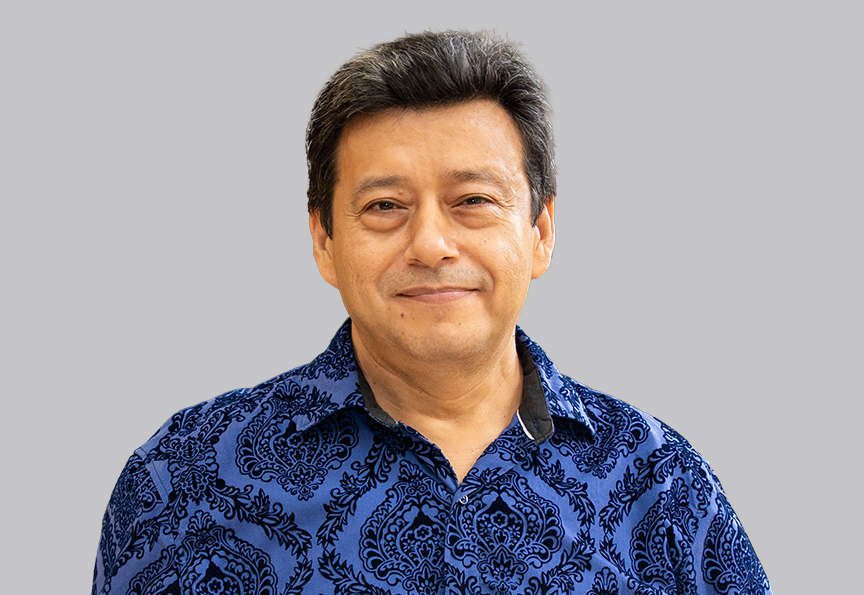
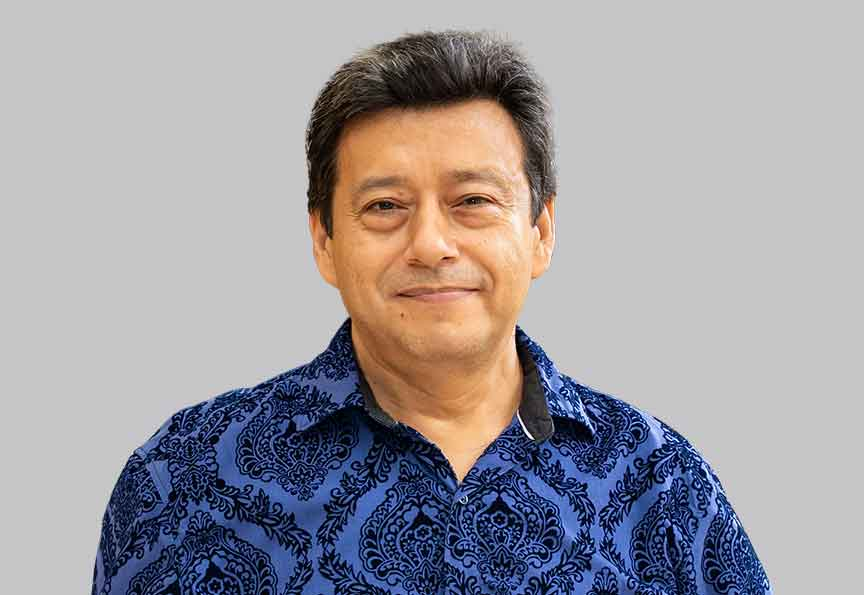
Collapse speaker bios behind a Ver más/Ver menos toggle
Speaker cards varied wildly in height since bio length ranged from
~700 to ~950 characters, making the grid look uneven row to row.
Wrap each card's bio paragraphs in a hidden <div>, toggled by a
button that reads "Ver más" / "Ver menos" (aria-expanded + a
rotating chevron). With bios collapsed, all cards now match roughly
the same height.

Also matched the agenda's registration button height to the site's
other buttons (48px, same as nav/hero/register-section), per request.

Picked up re-compressed versions of the 7 speaker photos along the
way (same dimensions, ~90% smaller file size).

diff --git a/site/index.html b/site/index.html
@@ -188,6 +188,10 @@
   .card-speaker .role{font-size:13px;color:var(--red);font-weight:600;}
   .card-speaker .topic{font-size:12px;color:var(--muted);margin-top:2px;}
   .card-speaker .bio{font-size:13px;line-height:1.5;color:var(--muted);margin-top:6px;}
+  .card-speaker .bio-toggle{display:inline-flex;align-items:center;gap:4px;margin-top:8px;background:none;border:none;padding:0;cursor:pointer;font-family:var(--font-body);font-size:12.5px;font-weight:700;letter-spacing:0.03em;text-transform:uppercase;color:var(--blue);}
+  .card-speaker .bio-toggle:hover{color:var(--red);}
+  .card-speaker .bio-toggle svg{transition:transform .15s ease;}
+  .card-speaker .bio-toggle[aria-expanded="true"] svg{transform:rotate(180deg);}
   .card-speaker .li-link{display:inline-flex;align-items:center;gap:6px;font-size:13px;color:var(--blue);font-weight:600;margin-top:4px;}
   .card-speaker .li-link svg{flex-shrink:0;}
   .card-speaker .li-link:hover{color:var(--red);}
@@ -224,7 +228,7 @@
   .day-row .where{font-size:13px;color:var(--muted);}
   .day-row.cont .date{visibility:hidden;}
   .tag-onsite{display:inline-block;margin-left:8px;padding:2px 8px;border-radius:3px;background:var(--cream);color:var(--blue);font-family:var(--font-mono);font-size:10.5px;letter-spacing:0.06em;text-transform:uppercase;vertical-align:2px;}
-  .rsvp-btn{display:inline-flex;align-items:center;gap:5px;align-self:flex-start;margin-top:4px;font-family:var(--font-mono);font-size:10.5px;font-weight:600;letter-spacing:0.05em;text-transform:uppercase;color:var(--blue);border:1px solid var(--blue);border-radius:3px;padding:3px 10px;}
+  .rsvp-btn{display:inline-flex;align-items:center;justify-content:center;gap:5px;align-self:flex-start;margin-top:4px;height:48px;font-family:var(--font-mono);font-size:10.5px;font-weight:600;letter-spacing:0.05em;text-transform:uppercase;color:var(--blue);border:1px solid var(--blue);border-radius:3px;padding:0 16px;}
   .rsvp-btn:hover{background:var(--blue);color:#fff;}
   @media (max-width:640px){
     .day-row{flex-wrap:wrap;gap:4px 16px;}
@@ -363,31 +367,31 @@
     <div class="grid-speakers">
       <div class="card-speaker">
         <img src="assets/speakers/Daniel-Cruz-Fuentes.jpg" alt="Retrato de Daniel Cruz">
-        <div class="meta"><h3>Daniel Cruz</h3><span class="role">Ingeniero ambiental — Oficina de país, OPS Bolivia</span><a class="li-link" href="https://www.linkedin.com/in/danielcruzfuentes/" target="_blank" rel="noopener"><svg aria-hidden="true" viewBox="0 0 24 24" width="16" height="16" fill="currentColor"><path d="M20.447 20.452h-3.554v-5.569c0-1.328-.027-3.037-1.852-3.037-1.853 0-2.136 1.445-2.136 2.939v5.667H9.351V9h3.414v1.561h.046c.477-.9 1.637-1.85 3.37-1.85 3.601 0 4.267 2.37 4.267 5.455v6.286zM5.337 7.433a2.062 2.062 0 1 1 0-4.124 2.062 2.062 0 0 1 0 4.124zM7.119 20.452H3.554V9h3.565v11.452z"/></svg>LinkedIn<svg aria-hidden="true" width="12" height="12" fill="currentColor" viewBox="0 0 16 16"><path fill-rule="evenodd" d="M14 2.5a.5.5 0 0 0-.5-.5h-6a.5.5 0 0 0 0 1h4.793L2.146 13.146a.5.5 0 0 0 .708.708L13 3.707V8.5a.5.5 0 0 0 1 0z"/></svg></a><p class="bio">Daniel Cruz es un ingeniero ambiental boliviano con más de 10 años de experiencia en salud ambiental. Ha cursado dos maestrías, una en Toxicología Ambiental y Evaluación de Riesgos y otra en Estudios del Desarrollo, formación que le ha permitido adquirir experiencia en análisis económico, sociológico y político.</p><p class="bio">A partir de su enfoque transdisciplinario y su experiencia profesional, aplica marcos analíticos como el pensamiento sistémico y el pensamiento integrador para comprender y abordar problemas complejos. Entre los trabajos destacados, fue miembro fundador de la Fundación Gaia Pacha, estuvo liderando la Unidad de Salud Ambiental del Ministerio de Salud de Bolivia (2016-2019), trabajó como consultor internacional para la Organización Panamericana de la Salud (OPS) y actualmente se desempeña en la oficina de país de la OPS en Bolivia.</p></div>
+        <div class="meta"><h3>Daniel Cruz</h3><span class="role">Ingeniero ambiental — Oficina de país, OPS Bolivia</span><a class="li-link" href="https://www.linkedin.com/in/danielcruzfuentes/" target="_blank" rel="noopener"><svg aria-hidden="true" viewBox="0 0 24 24" width="16" height="16" fill="currentColor"><path d="M20.447 20.452h-3.554v-5.569c0-1.328-.027-3.037-1.852-3.037-1.853 0-2.136 1.445-2.136 2.939v5.667H9.351V9h3.414v1.561h.046c.477-.9 1.637-1.85 3.37-1.85 3.601 0 4.267 2.37 4.267 5.455v6.286zM5.337 7.433a2.062 2.062 0 1 1 0-4.124 2.062 2.062 0 0 1 0 4.124zM7.119 20.452H3.554V9h3.565v11.452z"/></svg>LinkedIn<svg aria-hidden="true" width="12" height="12" fill="currentColor" viewBox="0 0 16 16"><path fill-rule="evenodd" d="M14 2.5a.5.5 0 0 0-.5-.5h-6a.5.5 0 0 0 0 1h4.793L2.146 13.146a.5.5 0 0 0 .708.708L13 3.707V8.5a.5.5 0 0 0 1 0z"/></svg></a><button type="button" class="bio-toggle" aria-expanded="false" aria-controls="bio-1"><span class="bio-toggle-label">Ver más</span><svg aria-hidden="true" viewBox="0 0 16 16" width="11" height="11" fill="currentColor"><path d="M8 11 2 5l1.4-1.4L8 8.2l4.6-4.6L14 5z"/></svg></button><div class="bio-wrap" id="bio-1" hidden><p class="bio">Daniel Cruz es un ingeniero ambiental boliviano con más de 10 años de experiencia en salud ambiental. Ha cursado dos maestrías, una en Toxicología Ambiental y Evaluación de Riesgos y otra en Estudios del Desarrollo, formación que le ha permitido adquirir experiencia en análisis económico, sociológico y político.</p><p class="bio">A partir de su enfoque transdisciplinario y su experiencia profesional, aplica marcos analíticos como el pensamiento sistémico y el pensamiento integrador para comprender y abordar problemas complejos. Entre los trabajos destacados, fue miembro fundador de la Fundación Gaia Pacha, estuvo liderando la Unidad de Salud Ambiental del Ministerio de Salud de Bolivia (2016-2019), trabajó como consultor internacional para la Organización Panamericana de la Salud (OPS) y actualmente se desempeña en la oficina de país de la OPS en Bolivia.</p></div></div>
       </div>
       <div class="card-speaker">
         <img src="assets/speakers/Noemi-Tirado.jpg" alt="Retrato de Noemí Tirado">
-        <div class="meta"><h3>Noemí Tirado</h3><span class="role">Docente investigadora emérita — Genética Toxicológica, UMSA</span><a class="li-link" href="https://www.linkedin.com/in/noemi-tirado-bustillos-4679a332/" target="_blank" rel="noopener"><svg aria-hidden="true" viewBox="0 0 24 24" width="16" height="16" fill="currentColor"><path d="M20.447 20.452h-3.554v-5.569c0-1.328-.027-3.037-1.852-3.037-1.853 0-2.136 1.445-2.136 2.939v5.667H9.351V9h3.414v1.561h.046c.477-.9 1.637-1.85 3.37-1.85 3.601 0 4.267 2.37 4.267 5.455v6.286zM5.337 7.433a2.062 2.062 0 1 1 0-4.124 2.062 2.062 0 0 1 0 4.124zM7.119 20.452H3.554V9h3.565v11.452z"/></svg>LinkedIn<svg aria-hidden="true" width="12" height="12" fill="currentColor" viewBox="0 0 16 16"><path fill-rule="evenodd" d="M14 2.5a.5.5 0 0 0-.5-.5h-6a.5.5 0 0 0 0 1h4.793L2.146 13.146a.5.5 0 0 0 .708.708L13 3.707V8.5a.5.5 0 0 0 1 0z"/></svg></a><p class="bio">La Dra. Noemí Tirado Bustillos es docente investigadora emérita de la UMSA y responsable de la Unidad de Genética Toxicológica del Instituto de Genética. Es miembro de la Academia Mundial de Ciencias (TWAS) y de la Academia Nacional de Ciencias de Bolivia (ANCB), y preside la Asociación Latinoamericana de Mutagénesis, Carcinogénesis y Teratogénesis Ambiental (ALAMCTA).</p><p class="bio">Su investigación se centra en la toxicología y genética toxicológica ambiental, con énfasis en los efectos de metales pesados, plaguicidas y otros contaminantes sobre la salud. Es autora de más de 60 publicaciones científicas y recibió el Premio Teresa Rescala Nemtala a Mujeres Investigadoras Destacadas de la UMSA (2025) y el Grado de Honor Cívico Prócer Pedro Domingo Murillo (2022).</p></div>
+        <div class="meta"><h3>Noemí Tirado</h3><span class="role">Docente investigadora emérita — Genética Toxicológica, UMSA</span><a class="li-link" href="https://www.linkedin.com/in/noemi-tirado-bustillos-4679a332/" target="_blank" rel="noopener"><svg aria-hidden="true" viewBox="0 0 24 24" width="16" height="16" fill="currentColor"><path d="M20.447 20.452h-3.554v-5.569c0-1.328-.027-3.037-1.852-3.037-1.853 0-2.136 1.445-2.136 2.939v5.667H9.351V9h3.414v1.561h.046c.477-.9 1.637-1.85 3.37-1.85 3.601 0 4.267 2.37 4.267 5.455v6.286zM5.337 7.433a2.062 2.062 0 1 1 0-4.124 2.062 2.062 0 0 1 0 4.124zM7.119 20.452H3.554V9h3.565v11.452z"/></svg>LinkedIn<svg aria-hidden="true" width="12" height="12" fill="currentColor" viewBox="0 0 16 16"><path fill-rule="evenodd" d="M14 2.5a.5.5 0 0 0-.5-.5h-6a.5.5 0 0 0 0 1h4.793L2.146 13.146a.5.5 0 0 0 .708.708L13 3.707V8.5a.5.5 0 0 0 1 0z"/></svg></a><button type="button" class="bio-toggle" aria-expanded="false" aria-controls="bio-2"><span class="bio-toggle-label">Ver más</span><svg aria-hidden="true" viewBox="0 0 16 16" width="11" height="11" fill="currentColor"><path d="M8 11 2 5l1.4-1.4L8 8.2l4.6-4.6L14 5z"/></svg></button><div class="bio-wrap" id="bio-2" hidden><p class="bio">La Dra. Noemí Tirado Bustillos es docente investigadora emérita de la UMSA y responsable de la Unidad de Genética Toxicológica del Instituto de Genética. Es miembro de la Academia Mundial de Ciencias (TWAS) y de la Academia Nacional de Ciencias de Bolivia (ANCB), y preside la Asociación Latinoamericana de Mutagénesis, Carcinogénesis y Teratogénesis Ambiental (ALAMCTA).</p><p class="bio">Su investigación se centra en la toxicología y genética toxicológica ambiental, con énfasis en los efectos de metales pesados, plaguicidas y otros contaminantes sobre la salud. Es autora de más de 60 publicaciones científicas y recibió el Premio Teresa Rescala Nemtala a Mujeres Investigadoras Destacadas de la UMSA (2025) y el Grado de Honor Cívico Prócer Pedro Domingo Murillo (2022).</p></div></div>
       </div>
       <div class="card-speaker">
         <img src="assets/speakers/Dario-Acha.jpg" alt="Retrato de Darío Achá">
-        <div class="meta"><h3>Darío Achá</h3><span class="role">Biólogo, Ph.D. — Instituto de Ecología, UMSA</span><a class="li-link" href="https://www.linkedin.com/in/dario-acha-17771738/" target="_blank" rel="noopener"><svg aria-hidden="true" viewBox="0 0 24 24" width="16" height="16" fill="currentColor"><path d="M20.447 20.452h-3.554v-5.569c0-1.328-.027-3.037-1.852-3.037-1.853 0-2.136 1.445-2.136 2.939v5.667H9.351V9h3.414v1.561h.046c.477-.9 1.637-1.85 3.37-1.85 3.601 0 4.267 2.37 4.267 5.455v6.286zM5.337 7.433a2.062 2.062 0 1 1 0-4.124 2.062 2.062 0 0 1 0 4.124zM7.119 20.452H3.554V9h3.565v11.452z"/></svg>LinkedIn<svg aria-hidden="true" width="12" height="12" fill="currentColor" viewBox="0 0 16 16"><path fill-rule="evenodd" d="M14 2.5a.5.5 0 0 0-.5-.5h-6a.5.5 0 0 0 0 1h4.793L2.146 13.146a.5.5 0 0 0 .708.708L13 3.707V8.5a.5.5 0 0 0 1 0z"/></svg></a><p class="bio">Darío Achá es biólogo y Ph.D. en Ciencias Ambientales y de la Vida por Trent University, Canadá. Es docente del Departamento de Biología e investigador del Instituto de Ecología de la UMSA, donde dirige el Laboratorio de Calidad Ambiental.</p><p class="bio">Su investigación se centra en la biogeoquímica de contaminantes en ecosistemas acuáticos, con especial énfasis en el ciclo y la transformación del mercurio y sus implicaciones para la salud humana. Ha liderado proyectos nacionales e internacionales sobre contaminación de ecosistemas del Altiplano y la Amazonía boliviana, eutrofización, bioremediación y resiliencia de ecosistemas acuáticos, y es autor de más de 60 publicaciones científicas.</p></div>
+        <div class="meta"><h3>Darío Achá</h3><span class="role">Biólogo, Ph.D. — Instituto de Ecología, UMSA</span><a class="li-link" href="https://www.linkedin.com/in/dario-acha-17771738/" target="_blank" rel="noopener"><svg aria-hidden="true" viewBox="0 0 24 24" width="16" height="16" fill="currentColor"><path d="M20.447 20.452h-3.554v-5.569c0-1.328-.027-3.037-1.852-3.037-1.853 0-2.136 1.445-2.136 2.939v5.667H9.351V9h3.414v1.561h.046c.477-.9 1.637-1.85 3.37-1.85 3.601 0 4.267 2.37 4.267 5.455v6.286zM5.337 7.433a2.062 2.062 0 1 1 0-4.124 2.062 2.062 0 0 1 0 4.124zM7.119 20.452H3.554V9h3.565v11.452z"/></svg>LinkedIn<svg aria-hidden="true" width="12" height="12" fill="currentColor" viewBox="0 0 16 16"><path fill-rule="evenodd" d="M14 2.5a.5.5 0 0 0-.5-.5h-6a.5.5 0 0 0 0 1h4.793L2.146 13.146a.5.5 0 0 0 .708.708L13 3.707V8.5a.5.5 0 0 0 1 0z"/></svg></a><button type="button" class="bio-toggle" aria-expanded="false" aria-controls="bio-3"><span class="bio-toggle-label">Ver más</span><svg aria-hidden="true" viewBox="0 0 16 16" width="11" height="11" fill="currentColor"><path d="M8 11 2 5l1.4-1.4L8 8.2l4.6-4.6L14 5z"/></svg></button><div class="bio-wrap" id="bio-3" hidden><p class="bio">Darío Achá es biólogo y Ph.D. en Ciencias Ambientales y de la Vida por Trent University, Canadá. Es docente del Departamento de Biología e investigador del Instituto de Ecología de la UMSA, donde dirige el Laboratorio de Calidad Ambiental.</p><p class="bio">Su investigación se centra en la biogeoquímica de contaminantes en ecosistemas acuáticos, con especial énfasis en el ciclo y la transformación del mercurio y sus implicaciones para la salud humana. Ha liderado proyectos nacionales e internacionales sobre contaminación de ecosistemas del Altiplano y la Amazonía boliviana, eutrofización, bioremediación y resiliencia de ecosistemas acuáticos, y es autor de más de 60 publicaciones científicas.</p></div></div>
       </div>
       <div class="card-speaker">
         <img src="assets/speakers/Armando-Alvarez.jpg" alt="Retrato de Armando Álvarez">
-        <div class="meta"><h3>Armando Álvarez</h3><span class="role">Ingeniero Metalúrgico — IIMETMAT, UMSA</span><a class="li-link" href="https://www.linkedin.com/in/armandex/" target="_blank" rel="noopener"><svg aria-hidden="true" viewBox="0 0 24 24" width="16" height="16" fill="currentColor"><path d="M20.447 20.452h-3.554v-5.569c0-1.328-.027-3.037-1.852-3.037-1.853 0-2.136 1.445-2.136 2.939v5.667H9.351V9h3.414v1.561h.046c.477-.9 1.637-1.85 3.37-1.85 3.601 0 4.267 2.37 4.267 5.455v6.286zM5.337 7.433a2.062 2.062 0 1 1 0-4.124 2.062 2.062 0 0 1 0 4.124zM7.119 20.452H3.554V9h3.565v11.452z"/></svg>LinkedIn<svg aria-hidden="true" width="12" height="12" fill="currentColor" viewBox="0 0 16 16"><path fill-rule="evenodd" d="M14 2.5a.5.5 0 0 0-.5-.5h-6a.5.5 0 0 0 0 1h4.793L2.146 13.146a.5.5 0 0 0 .708.708L13 3.707V8.5a.5.5 0 0 0 1 0z"/></svg></a><p class="bio">El Ing. Armando Álvarez Quispe es Ingeniero Metalúrgico y Docente Investigador del Instituto de Investigaciones en Metalurgia y Materiales (IIMETMAT) de la UMSA. Cuenta con 18 años de experiencia profesional en la industria minero-metalúrgica y 28 años de trayectoria en investigación.</p><p class="bio">Su experiencia se centra en el procesamiento de minerales auríferos y el desarrollo de tecnologías limpias para la recuperación de oro, incluyendo tratamiento de piritas auríferas, concentración gravimétrica y gravimetría centrífuga, además del tratamiento de residuos minero-metalúrgicos. Ha recibido el Premio Nacional de Investigación del Viceministerio de Ciencia y Tecnología (2008) y el reconocimiento como Docente Emérito de la UMSA (2010).</p></div>
+        <div class="meta"><h3>Armando Álvarez</h3><span class="role">Ingeniero Metalúrgico — IIMETMAT, UMSA</span><a class="li-link" href="https://www.linkedin.com/in/armandex/" target="_blank" rel="noopener"><svg aria-hidden="true" viewBox="0 0 24 24" width="16" height="16" fill="currentColor"><path d="M20.447 20.452h-3.554v-5.569c0-1.328-.027-3.037-1.852-3.037-1.853 0-2.136 1.445-2.136 2.939v5.667H9.351V9h3.414v1.561h.046c.477-.9 1.637-1.85 3.37-1.85 3.601 0 4.267 2.37 4.267 5.455v6.286zM5.337 7.433a2.062 2.062 0 1 1 0-4.124 2.062 2.062 0 0 1 0 4.124zM7.119 20.452H3.554V9h3.565v11.452z"/></svg>LinkedIn<svg aria-hidden="true" width="12" height="12" fill="currentColor" viewBox="0 0 16 16"><path fill-rule="evenodd" d="M14 2.5a.5.5 0 0 0-.5-.5h-6a.5.5 0 0 0 0 1h4.793L2.146 13.146a.5.5 0 0 0 .708.708L13 3.707V8.5a.5.5 0 0 0 1 0z"/></svg></a><button type="button" class="bio-toggle" aria-expanded="false" aria-controls="bio-4"><span class="bio-toggle-label">Ver más</span><svg aria-hidden="true" viewBox="0 0 16 16" width="11" height="11" fill="currentColor"><path d="M8 11 2 5l1.4-1.4L8 8.2l4.6-4.6L14 5z"/></svg></button><div class="bio-wrap" id="bio-4" hidden><p class="bio">El Ing. Armando Álvarez Quispe es Ingeniero Metalúrgico y Docente Investigador del Instituto de Investigaciones en Metalurgia y Materiales (IIMETMAT) de la UMSA. Cuenta con 18 años de experiencia profesional en la industria minero-metalúrgica y 28 años de trayectoria en investigación.</p><p class="bio">Su experiencia se centra en el procesamiento de minerales auríferos y el desarrollo de tecnologías limpias para la recuperación de oro, incluyendo tratamiento de piritas auríferas, concentración gravimétrica y gravimetría centrífuga, además del tratamiento de residuos minero-metalúrgicos. Ha recibido el Premio Nacional de Investigación del Viceministerio de Ciencia y Tecnología (2008) y el reconocimiento como Docente Emérito de la UMSA (2010).</p></div></div>
       </div>
       <div class="card-speaker">
         <img src="assets/speakers/JESUS-OLIVERO-VERBEL.jpg" alt="Retrato de Jesús Olivero Verbel">
-        <div class="meta"><h3>Jesús Olivero Verbel</h3><span class="role">Toxicólogo ambiental, Ph.D. — Universidad de Cartagena</span><p class="bio">Jesús Olivero Verbel es toxicólogo ambiental con Ph.D. en Toxicología Ambiental. Es profesor titular de la Universidad de Cartagena y actual Director del Instituto de Investigaciones en Cambio Climático y Desarrollo Sostenible (IICCDS).</p><p class="bio">Ha investigado ampliamente la contaminación por mercurio en América Latina y sus efectos en la salud humana y ambiental, y ha recibido reconocimientos como el Premio Nacional al Mérito Científico por su trayectoria.</p></div>
+        <div class="meta"><h3>Jesús Olivero Verbel</h3><span class="role">Toxicólogo ambiental, Ph.D. — Universidad de Cartagena</span><button type="button" class="bio-toggle" aria-expanded="false" aria-controls="bio-5"><span class="bio-toggle-label">Ver más</span><svg aria-hidden="true" viewBox="0 0 16 16" width="11" height="11" fill="currentColor"><path d="M8 11 2 5l1.4-1.4L8 8.2l4.6-4.6L14 5z"/></svg></button><div class="bio-wrap" id="bio-5" hidden><p class="bio">Jesús Olivero Verbel es toxicólogo ambiental con Ph.D. en Toxicología Ambiental. Es profesor titular de la Universidad de Cartagena y actual Director del Instituto de Investigaciones en Cambio Climático y Desarrollo Sostenible (IICCDS).</p><p class="bio">Ha investigado ampliamente la contaminación por mercurio en América Latina y sus efectos en la salud humana y ambiental, y ha recibido reconocimientos como el Premio Nacional al Mérito Científico por su trayectoria.</p></div></div>
       </div>
       <div class="card-speaker">
         <img src="assets/speakers/OSCAR-CAMPANINI.jpg" alt="Retrato de Oscar Campanini">
-        <div class="meta"><h3>Oscar Campanini</h3><span class="role">Director Ejecutivo — CEDIB</span><a class="li-link" href="https://www.linkedin.com/in/oscar-campanini-gonzales-8a0682267/" target="_blank" rel="noopener"><svg aria-hidden="true" viewBox="0 0 24 24" width="16" height="16" fill="currentColor"><path d="M20.447 20.452h-3.554v-5.569c0-1.328-.027-3.037-1.852-3.037-1.853 0-2.136 1.445-2.136 2.939v5.667H9.351V9h3.414v1.561h.046c.477-.9 1.637-1.85 3.37-1.85 3.601 0 4.267 2.37 4.267 5.455v6.286zM5.337 7.433a2.062 2.062 0 1 1 0-4.124 2.062 2.062 0 0 1 0 4.124zM7.119 20.452H3.554V9h3.565v11.452z"/></svg>LinkedIn<svg aria-hidden="true" width="12" height="12" fill="currentColor" viewBox="0 0 16 16"><path fill-rule="evenodd" d="M14 2.5a.5.5 0 0 0-.5-.5h-6a.5.5 0 0 0 0 1h4.793L2.146 13.146a.5.5 0 0 0 .708.708L13 3.707V8.5a.5.5 0 0 0 1 0z"/></svg></a><p class="bio">Oscar Campanini es Director Ejecutivo del Centro de Documentación e Información Bolivia (CEDIB). Es investigador, licenciado en Sociología con maestría en Medio Ambiente y Desarrollo. Sus trabajos profundizan las problemáticas vinculadas al agua, saneamiento, minería, extractivismo, recursos naturales, derechos humanos y ambientales.</p><p class="bio">En los últimos años ha estudiado la minería aluvial y los impactos económicos, ambientales y sociales del mercurio, investigación que se ha convertido en un insumo clave para que el Estado boliviano tome acciones para reducir las importaciones de este elemento.</p></div>
+        <div class="meta"><h3>Oscar Campanini</h3><span class="role">Director Ejecutivo — CEDIB</span><a class="li-link" href="https://www.linkedin.com/in/oscar-campanini-gonzales-8a0682267/" target="_blank" rel="noopener"><svg aria-hidden="true" viewBox="0 0 24 24" width="16" height="16" fill="currentColor"><path d="M20.447 20.452h-3.554v-5.569c0-1.328-.027-3.037-1.852-3.037-1.853 0-2.136 1.445-2.136 2.939v5.667H9.351V9h3.414v1.561h.046c.477-.9 1.637-1.85 3.37-1.85 3.601 0 4.267 2.37 4.267 5.455v6.286zM5.337 7.433a2.062 2.062 0 1 1 0-4.124 2.062 2.062 0 0 1 0 4.124zM7.119 20.452H3.554V9h3.565v11.452z"/></svg>LinkedIn<svg aria-hidden="true" width="12" height="12" fill="currentColor" viewBox="0 0 16 16"><path fill-rule="evenodd" d="M14 2.5a.5.5 0 0 0-.5-.5h-6a.5.5 0 0 0 0 1h4.793L2.146 13.146a.5.5 0 0 0 .708.708L13 3.707V8.5a.5.5 0 0 0 1 0z"/></svg></a><button type="button" class="bio-toggle" aria-expanded="false" aria-controls="bio-6"><span class="bio-toggle-label">Ver más</span><svg aria-hidden="true" viewBox="0 0 16 16" width="11" height="11" fill="currentColor"><path d="M8 11 2 5l1.4-1.4L8 8.2l4.6-4.6L14 5z"/></svg></button><div class="bio-wrap" id="bio-6" hidden><p class="bio">Oscar Campanini es Director Ejecutivo del Centro de Documentación e Información Bolivia (CEDIB). Es investigador, licenciado en Sociología con maestría en Medio Ambiente y Desarrollo. Sus trabajos profundizan las problemáticas vinculadas al agua, saneamiento, minería, extractivismo, recursos naturales, derechos humanos y ambientales.</p><p class="bio">En los últimos años ha estudiado la minería aluvial y los impactos económicos, ambientales y sociales del mercurio, investigación que se ha convertido en un insumo clave para que el Estado boliviano tome acciones para reducir las importaciones de este elemento.</p></div></div>
       </div>
       <div class="card-speaker">
         <img src="assets/speakers/Gabriela-Uquidi.jpg" alt="Retrato de Gabriela Urquidi">
-        <div class="meta"><h3>Gabriela Urquidi</h3><span class="role">Ingeniera Ambiental — Coordinación técnica, planetGOLD Bolivia</span><a class="li-link" href="https://www.linkedin.com/in/gabriela-urquidi-118844132/" target="_blank" rel="noopener"><svg aria-hidden="true" viewBox="0 0 24 24" width="16" height="16" fill="currentColor"><path d="M20.447 20.452h-3.554v-5.569c0-1.328-.027-3.037-1.852-3.037-1.853 0-2.136 1.445-2.136 2.939v5.667H9.351V9h3.414v1.561h.046c.477-.9 1.637-1.85 3.37-1.85 3.601 0 4.267 2.37 4.267 5.455v6.286zM5.337 7.433a2.062 2.062 0 1 1 0-4.124 2.062 2.062 0 0 1 0 4.124zM7.119 20.452H3.554V9h3.565v11.452z"/></svg>LinkedIn<svg aria-hidden="true" width="12" height="12" fill="currentColor" viewBox="0 0 16 16"><path fill-rule="evenodd" d="M14 2.5a.5.5 0 0 0-.5-.5h-6a.5.5 0 0 0 0 1h4.793L2.146 13.146a.5.5 0 0 0 .708.708L13 3.707V8.5a.5.5 0 0 0 1 0z"/></svg></a><p class="bio">Gabriela Urquidi es Ingeniera Ambiental con formación de posgrado en Gestión de Proyectos y especializaciones en temáticas vinculadas a la minería y la gestión ambiental. Cuenta con más de diez años de experiencia en el sector minero aurífero, promoviendo la sostenibilidad y fortaleciendo la gestión ambiental en la minería artesanal y de pequeña escala (MAPE) desde 2015.</p><p class="bio">Entre 2017 y 2023 formó parte de la Iniciativa Suiza Oro Responsable en Bolivia, donde se desempeñó como Coordinadora Operativa. Desde este rol lideró procesos de acompañamiento técnico, fortalecimiento institucional y comunicación estratégica, impulsando la elaboración de guías, manuales y materiales pedagógicos dirigidos a actores de la MAPE, contribuyendo a la mejora de prácticas ambientales y a la adopción de estándares internacionales de sostenibilidad.</p><p class="bio">Desde 2023 integra el equipo de coordinación técnica del proyecto planetGOLD Bolivia, donde articula su experiencia técnica con un enfoque comunicacional orientado a visibilizar el trabajo del sector, promover el diálogo interinstitucional y contribuir a la implementación del Convenio de Minamata mediante la reducción del uso de mercurio en la minería aurífera.</p></div>
+        <div class="meta"><h3>Gabriela Urquidi</h3><span class="role">Ingeniera Ambiental — Coordinación técnica, planetGOLD Bolivia</span><a class="li-link" href="https://www.linkedin.com/in/gabriela-urquidi-118844132/" target="_blank" rel="noopener"><svg aria-hidden="true" viewBox="0 0 24 24" width="16" height="16" fill="currentColor"><path d="M20.447 20.452h-3.554v-5.569c0-1.328-.027-3.037-1.852-3.037-1.853 0-2.136 1.445-2.136 2.939v5.667H9.351V9h3.414v1.561h.046c.477-.9 1.637-1.85 3.37-1.85 3.601 0 4.267 2.37 4.267 5.455v6.286zM5.337 7.433a2.062 2.062 0 1 1 0-4.124 2.062 2.062 0 0 1 0 4.124zM7.119 20.452H3.554V9h3.565v11.452z"/></svg>LinkedIn<svg aria-hidden="true" width="12" height="12" fill="currentColor" viewBox="0 0 16 16"><path fill-rule="evenodd" d="M14 2.5a.5.5 0 0 0-.5-.5h-6a.5.5 0 0 0 0 1h4.793L2.146 13.146a.5.5 0 0 0 .708.708L13 3.707V8.5a.5.5 0 0 0 1 0z"/></svg></a><button type="button" class="bio-toggle" aria-expanded="false" aria-controls="bio-7"><span class="bio-toggle-label">Ver más</span><svg aria-hidden="true" viewBox="0 0 16 16" width="11" height="11" fill="currentColor"><path d="M8 11 2 5l1.4-1.4L8 8.2l4.6-4.6L14 5z"/></svg></button><div class="bio-wrap" id="bio-7" hidden><p class="bio">Gabriela Urquidi es Ingeniera Ambiental con formación de posgrado en Gestión de Proyectos y especializaciones en temáticas vinculadas a la minería y la gestión ambiental. Cuenta con más de diez años de experiencia en el sector minero aurífero, promoviendo la sostenibilidad y fortaleciendo la gestión ambiental en la minería artesanal y de pequeña escala (MAPE) desde 2015.</p><p class="bio">Entre 2017 y 2023 formó parte de la Iniciativa Suiza Oro Responsable en Bolivia, donde se desempeñó como Coordinadora Operativa. Desde este rol lideró procesos de acompañamiento técnico, fortalecimiento institucional y comunicación estratégica, impulsando la elaboración de guías, manuales y materiales pedagógicos dirigidos a actores de la MAPE, contribuyendo a la mejora de prácticas ambientales y a la adopción de estándares internacionales de sostenibilidad.</p><p class="bio">Desde 2023 integra el equipo de coordinación técnica del proyecto planetGOLD Bolivia, donde articula su experiencia técnica con un enfoque comunicacional orientado a visibilizar el trabajo del sector, promover el diálogo interinstitucional y contribuir a la implementación del Convenio de Minamata mediante la reducción del uso de mercurio en la minería aurífera.</p></div></div>
       </div>
     </div>
   </div>
@@ -579,5 +583,18 @@
       }, { rootMargin: '-45% 0px -50% 0px', threshold: 0 });
       sections.forEach(function(s){ io.observe(s); });
     }catch(e){}
+  })();
+
+  (function(){
+    document.querySelectorAll('.bio-toggle').forEach(function(btn){
+      btn.addEventListener('click', function(){
+        var expanded = btn.getAttribute('aria-expanded') === 'true';
+        var panel = document.getElementById(btn.getAttribute('aria-controls'));
+        if(!panel) return;
+        panel.hidden = expanded;
+        btn.setAttribute('aria-expanded', String(!expanded));
+        btn.querySelector('.bio-toggle-label').textContent = expanded ? 'Ver más' : 'Ver menos';
+      });
+    });
   })();
 </script>
